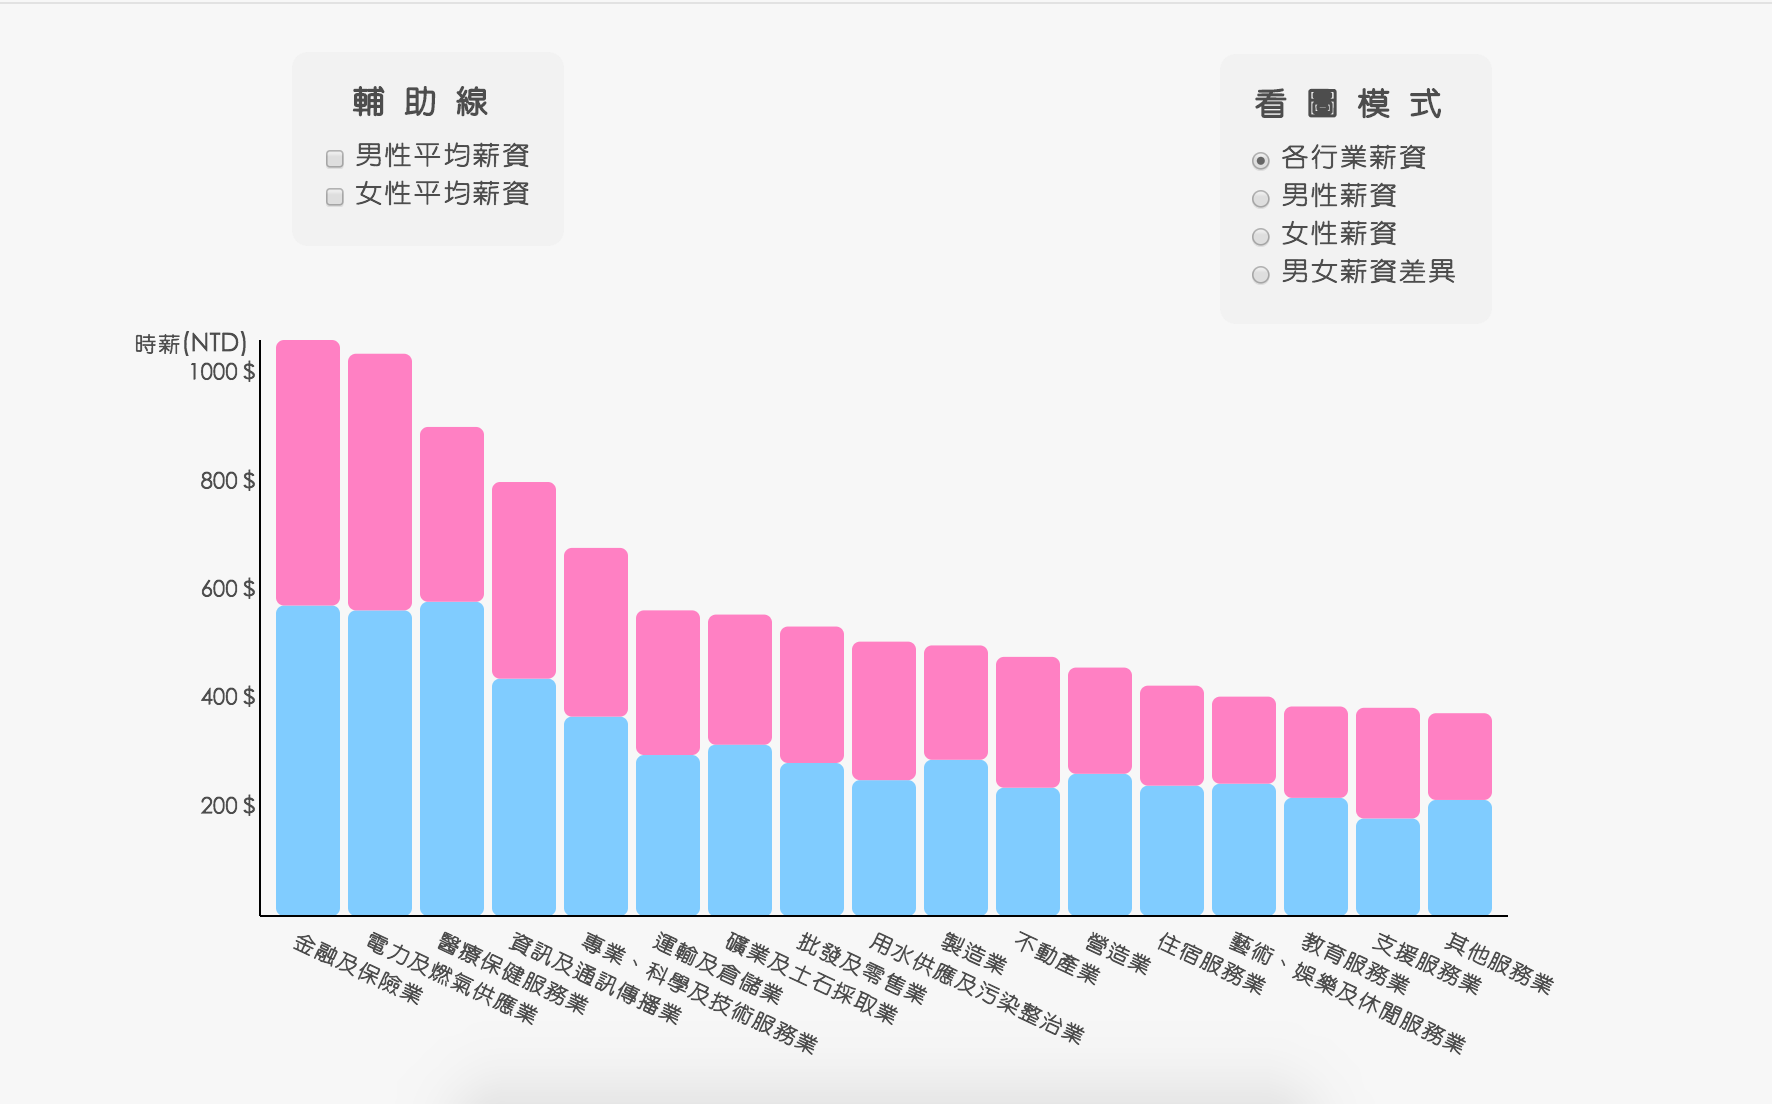
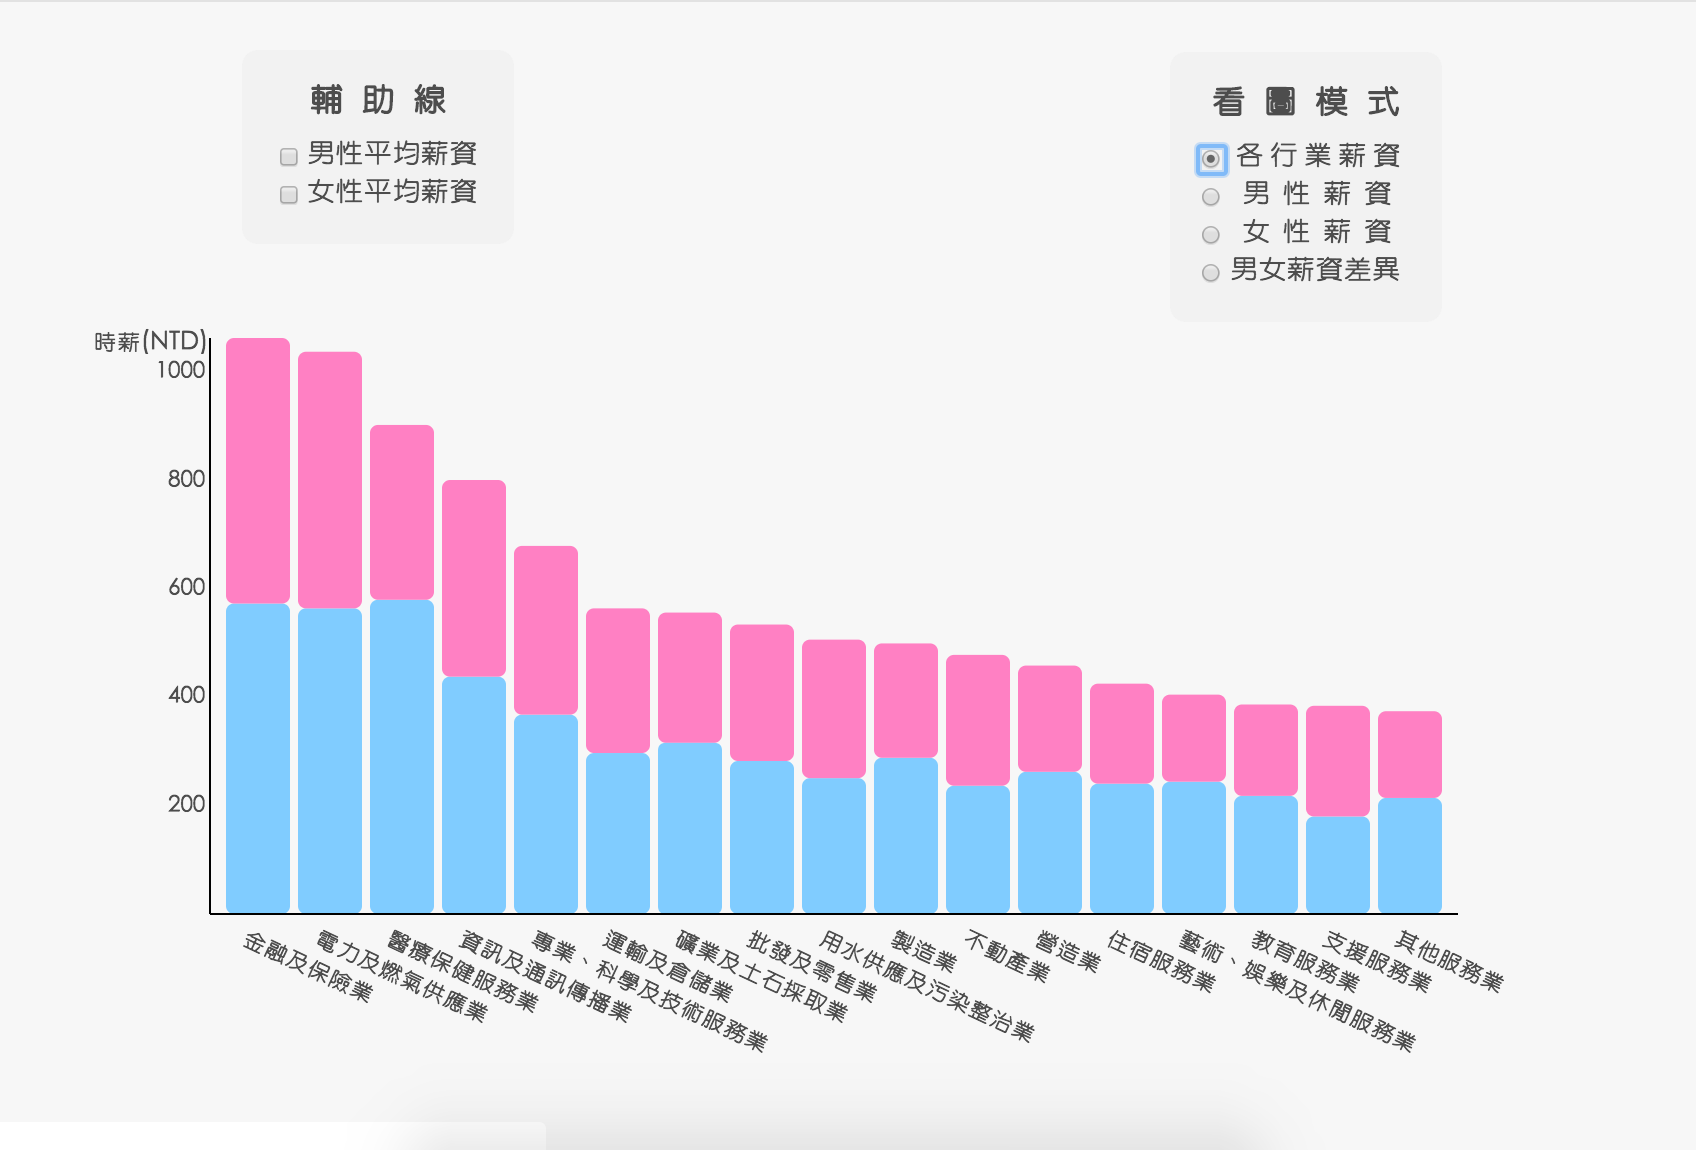
taiwan_salary_2015 bug fixed

Changed region(s): [[0.0625, 0.2772, 0.9062, 0.9547], [0.6875, 0.0616, 0.8438, 0.2772], [0.1562, 0.0616, 0.3125, 0.1848]]

diff --git a/taiwan_salary_2015/index.html b/taiwan_salary_2015/index.html
@@ -1,1 +1,1 @@
-<!DOCTYPE html><html xmlns="http://www.w3.org/1999/xhtml" lang="zh-TW"><head><title>用數據看台灣 - 2015年台灣薪資</title><meta http-equiv="Content-Type" content="text/html; charset=utf-8"><meta property="og:title" content="用數據看台灣 - 2015年台灣薪資"><meta property="og:site_name" content="用數據看台灣 - 2015年台灣薪資"><meta property="og:description" content="想知道什麼行業薪資最高嗎？又或是男女的薪資待遇真的公平嗎？根據政府開放資料，呈現2015年台灣的薪資視覺化！"><meta property="og:image" content="https://s3-ap-northeast-1.amazonaws.com/static.twstat.com/realtime/./images/taiwan_salary_2015.png"><meta property="og:image:type" content="image/png"><meta name="author" content="曾柏瑄"><meta name="citation_authors" content="曾柏瑄"><meta name="description" content="想知道什麼行業薪資最高嗎？又或是男女的薪資待遇真的公平嗎？根據政府開放資料，呈現2015年台灣的薪資視覺化！ Author: 曾柏瑄"><meta name="keywords" content="數據、視覺化、台灣、圖表、資訊"><meta property="og:locale" content="zh_TW"><meta name="viewport" content="width=device-width,initial-scale=1"><link rel="icon" type="image/png" href="//s3-ap-northeast-1.amazonaws.com/static.twstat.com/favicon.ico"><link rel="shortcut icon" href="//s3-ap-northeast-1.amazonaws.com/static.twstat.com/favicon.ico" type="image/x-icon"><link rel="stylesheet" href="//s3-ap-northeast-1.amazonaws.com/static.twstat.com/css/style.min.css"><link rel="stylesheet" href="//storage.googleapis.com/code.getmdl.io/1.0.6/material.amber-orange.min.css"><link rel="stylesheet" href="//s3-ap-northeast-1.amazonaws.com/static.twstat.com/bower_components/semantic/dist/semantic.min.css"><link rel="stylesheet" href="//maxcdn.bootstrapcdn.com/font-awesome/4.4.0/css/font-awesome.min.css"><link rel="stylesheet" href="//fonts.googleapis.com/icon?family=Material+Icons"><script src="//storage.googleapis.com/code.getmdl.io/1.0.6/material.min.js" async=""></script><link rel="stylesheet" type="text/css" href="./css/style.css"><script type="text/javascript" src="http://d3js.org/d3.v3.min.js"></script><link href="https://fonts.googleapis.com/earlyaccess/cwtexyen.css" rel="stylesheet"></head><body><div class="mdl-layout mdl-js-layout mdl-layout--fixed-header" id="layout-header"><header class="mdl-layout__header"><div class="mdl-layout__header-row"><span class="mdl-layout-title"><a href="https://www.taiwanstat.com/realtime/"><img src="https://s3-ap-northeast-1.amazonaws.com/static.twstat.com/realtime/images/assert/round-logo.png" class="round-logo" alt="logo">用數據看台灣</a></span><div class="mdl-layout-spacer"></div><nav class="mdl-navigation mdl-layout--large-screen-only"><a class="mdl-navigation__link" href="https://www.taiwanstat.com/realtime/">台灣開放即時資料</a> <a class="mdl-navigation__link" href="https://www.taiwanstat.com/statistics/">台灣開放統計資料</a> <a class="mdl-navigation__link" href="https://www.taiwanstat.com/global/r/">世界即時資訊</a> <a class="mdl-navigation__link" href="https://www.taiwanstat.com/global/l/">世界統計資訊</a> <a class="mdl-navigation__link" href="https://taiwanstat.com/blog/opendata/">開放資料分析部落格</a> <a class="mdl-navigation__link" href="http://taiwanstat-about-us.cannerapp.com/">關於我們</a></nav><div></div></div></header><div class="mdl-layout__drawer"><span class="mdl-layout-title"><a href="https://www.taiwanstat.com/realtime/"><img src="https://s3-ap-northeast-1.amazonaws.com/static.twstat.com/realtime/images/assert/round-logo.png" class="round-logo" alt="logo">用數據看台灣</a></span><nav class="mdl-navigation"><a class="mdl-navigation__link" href="https://www.taiwanstat.com/realtime/">台灣開放即時資料</a> <a class="mdl-navigation__link" href="https://www.taiwanstat.com/statistics/">台灣開放統計資料</a> <a class="mdl-navigation__link" href="https://www.taiwanstat.com/global/r/">世界即時資訊</a> <a class="mdl-navigation__link" href="https://www.taiwanstat.com/global/l/">世界統計資訊</a> <a class="mdl-navigation__link" href="https://taiwanstat.com/blog/opendata/">開放資料分析部落格</a> <a class="mdl-navigation__link" href="http://taiwanstat-about-us.cannerapp.com/">關於我們</a></nav></div><main class="mdl-layout__content" id="main-content"><div class="title__wrapper"><h1 id="title">2015年台灣薪資</h1><div class="fb-plugin"><div class="fb-like" data-href="http://long.taiwanstat.com/taiwan_salary_2015" data-width="300px" data-layout="standard" data-action="like" data-show-faces="true" data-share="true"></div></div></div><div align="center" class="bars"><div class="avg-lines"><div class="lines">輔助線</div><div class="check-box-male"><input type="checkbox" id="maleAverage"> 男性平均薪資</div><div class="check-box-female"><input type="checkbox" id="femaleAverage"> 女性平均薪資</div></div><div class="modes"><div class="lines">看圖模式</div><div><input class="chart" type="radio" name="mode" value="stacked" checked=""> 各行業薪資</div><div><input class="maleChart" type="radio" name="mode" value="stacked"> 男性薪資</div><div><input class="femaleChart" type="radio" name="mode" value="stacked"> 女性薪資</div><div><input class="chart" type="radio" name="mode" value="grouped"> 男女薪資差異</div></div></div><div class="svg-chart"></div><div class="mdl-card author"><h4><a href="http://taiwanstat_members.cannerapp.com/">About Author</a></h4><div class="author-wrapper"><img class="ui circular image" src="https://s3-ap-northeast-1.amazonaws.com/static.twstat.com/realtime/images/assert/background.png"><div class="author-info"><h5>曾柏瑄</h5></div></div></div><div class="license__wrapper"><a rel="license" href="http://creativecommons.org/licenses/by-nc-sa/4.0/"><img alt="創用 CC 授權條款" style="border-width:0" src="https://i.creativecommons.org/l/by-nc-sa/4.0/88x31.png"></a><br>本著作由<a xmlns:cc="http://creativecommons.org/ns#" href="http://www.taiwanstat.com" property="cc:attributionName" rel="cc:attributionURL">用數據看台灣團隊</a>製作，以<a rel="license" href="http://creativecommons.org/licenses/by-nc-sa/4.0/">創用CC 姓名標示-非商業性-相同方式分享 4.0 國際 授權條款</a>釋出。</div></main></div><script src="//ajax.googleapis.com/ajax/libs/jquery/2.1.3/jquery.min.js"></script><script type="text/javascript" src="//cdnjs.cloudflare.com/ajax/libs/d3/3.5.9/d3.min.js"></script><script src="//s3-ap-northeast-1.amazonaws.com/static.twstat.com/bower_components/semantic/dist/semantic.min.js"></script><script>!function(e,a,t,n,c,o,s){e.GoogleAnalyticsObject=c,e[c]=e[c]||function(){(e[c].q=e[c].q||[]).push(arguments)},e[c].l=1*new Date,o=a.createElement(t),s=a.getElementsByTagName(t)[0],o.async=1,o.src=n,s.parentNode.insertBefore(o,s)}(window,document,"script","//www.google-analytics.com/analytics.js","ga"),ga("create","UA-61023469-1","auto"),ga("send","pageview")</script><div id="fb-root"></div><script>!function(e,t,n){var o,c=e.getElementsByTagName(t)[0];e.getElementById(n)||(o=e.createElement(t),o.id=n,o.src="//connect.facebook.net/zh_TW/sdk.js#xfbml=1&version=v2.5",c.parentNode.insertBefore(o,c))}(document,"script","facebook-jssdk")</script><script src="d3.tip.v0.6.3.js"></script><div class="footer-mobile"><button class="scrollup mdl-button mdl-js-button mdl-button--fab mdl-js-ripple-effect mdl-button--colored mdl-shadow--2dp" id="set"><i class="material-icons">keyboard_arrow_up</i></button></div><footer class="mdl-mini-footer"><div class="mdl-mini-footer__left-section">© 2015 <a href="http://taiwanstat-about-us.cannerapp.com">用數據看台灣</a>· <a href="https://www.facebook.com/taiwanstat/?fref=ts"><i class="facebook square icon"></i></a> · <a href="https://github.com/TaiwanStat"><i class="github square icon"></i></a></div><div class="mdl-mini-footer__right-section"><span class="footer_msg">合作提案、客製化圖表製作、意見回饋 </span>歡迎來信: <a href="mailto:contact@taiwanstat.com">contact@taiwanstat.com</a></div></footer><script src="//s3-ap-northeast-1.amazonaws.com/static.twstat.com/js/main.min.js"></script><script type="text/javascript" src="./js/index.js"></script></body></html>
+<html xmlns="http://www.w3.org/1999/xhtml" lang="zh-TW"><head><meta charset="utf-8"><link rel="icon" type="image/png" href="https://s3-ap-northeast-1.amazonaws.com/static.twstat.com/favicon.ico"><link rel="shortcut icon" href="https://s3-ap-northeast-1.amazonaws.com/static.twstat.com/favicon.ico" type="image/x-icon"><meta property="og:title" content="用數據看台灣 - 2015年台灣薪資"><meta property="og:site_name" content="用數據看台灣 - 2015年台灣薪資"><meta property="og:description" content="想知道什麼行業薪資最高嗎？又或是男女的薪資待遇真的公平嗎？根據政府開放資料，呈現2015年台灣的薪資視覺化！"><title>用數據看台灣 - 2015年台灣薪資</title><meta http-equiv="Content-Type" content="text/html" charset="utf-8"><meta property="og:image" content="http://long.taiwanstat.com/./images/taiwan_salary_2015.png"><meta property="og:image:type" content="image/png"><meta name="author" content="曾柏瑄"><meta name="citation_authors" content="曾柏瑄"><meta name="description" content="想知道什麼行業薪資最高嗎？又或是男女的薪資待遇真的公平嗎？根據政府開放資料，呈現2015年台灣的薪資視覺化！ Author: 曾柏瑄"><meta name="viewport" content="width=device-width,initial-scale=1"><link rel="stylesheet" href="https://s3-ap-northeast-1.amazonaws.com/static.twstat.com/css/style.min.css"><link rel="stylesheet" href="https://maxcdn.bootstrapcdn.com/font-awesome/4.4.0/css/font-awesome.min.css"><link rel="stylesheet" href="https://storage.googleapis.com/code.getmdl.io/1.0.6/material.amber-orange.min.css"><link rel="stylesheet" href="https://fonts.googleapis.com/icon?family=Material+Icons"><link rel="stylesheet" href="https://s3-ap-northeast-1.amazonaws.com/static.twstat.com/bower_components/semantic/dist/semantic.min.css"><script src="https://storage.googleapis.com/code.getmdl.io/1.0.6/material.min.js" async=""></script><link rel="stylesheet" type="text/css" href="./css/style.css"><script type="text/javascript" src="http://d3js.org/d3.v3.min.js"></script><link href="https://fonts.googleapis.com/earlyaccess/cwtexyen.css" rel="stylesheet"></head><body><div class="mdl-layout mdl-js-layout mdl-layout--fixed-header" id="layout-header"><header class="mdl-layout__header"><div class="mdl-layout__header-row"><span class="mdl-layout-title"><a href="http://real.taiwanstat.com/"><img src="https://s3-ap-northeast-1.amazonaws.com/static.twstat.com/realtime/images/assert/round-logo.png" id="round-logo">用數據看台灣</a></span><div class="mdl-layout-spacer"></div><nav class="mdl-navigation mdl-layout--large-screen-only"><a class="mdl-navigation__link" href="https://www.taiwanstat.com/realtime/">台灣開放即時資料</a> <a class="mdl-navigation__link" href="https://www.taiwanstat.com/statistics/">台灣開放統計資料</a> <a class="mdl-navigation__link" href="http://global.taiwanstat.com/r/">世界即時資訊</a> <a class="mdl-navigation__link" href="http://global.taiwanstat.com/l/">世界統計資訊</a> <a class="mdl-navigation__link" href="https://taiwanstat.com/blog/opendata/">開放資料分析部落格</a> <a class="mdl-navigation__link" href="http://taiwanstat-about-us.cannerapp.com/">關於我們</a></nav><div></div></div></header><div class="mdl-layout__drawer"><span class="mdl-layout-title"><a href="http://real.taiwanstat.com/"><img src="https://s3-ap-northeast-1.amazonaws.com/static.twstat.com/realtime/images/assert/round-logo.png" id="round-logo">用數據看台灣</a></span><nav class="mdl-navigation"><a class="mdl-navigation__link" href="https://www.taiwanstat.com/realtime/">台灣開放即時資料</a> <a class="mdl-navigation__link" href="https://www.taiwanstat.com/statistics/">台灣開放統計資料</a> <a class="mdl-navigation__link" href="http://global.taiwanstat.com/r/">世界即時資訊</a> <a class="mdl-navigation__link" href="http://global.taiwanstat.com/l/">世界統計資訊</a> <a class="mdl-navigation__link" href="https://taiwanstat.com/blog/opendata/">開放資料分析部落格</a> <a class="mdl-navigation__link" href="http://taiwanstat-about-us.cannerapp.com/">關於我們</a></nav></div><main class="mdl-layout__content" id="main-content"><div class="title__wrapper"><h1 id="title">2015年台灣薪資</h1><div class="fb-plugin"><div class="fb-like" data-href="http://long.taiwanstat.com/taiwan_salary_2015" data-width="300px" data-layout="standard" data-action="like" data-show-faces="true" data-share="true"></div></div></div><div align="center" class="bars"><div class="avg-lines"><div class="lines">輔助線</div><div class="check-box-male"><input type="checkbox" id="maleAverage"> 男性平均薪資</div><div class="check-box-female"><input type="checkbox" id="femaleAverage"> 女性平均薪資</div></div><div class="modes"><div class="lines">看圖模式</div><div style="letter-spacing:3px;margin-right:-3px"><input class="chart" type="radio" name="mode" value="stacked" checked=""> 各行業薪資</div><div style="letter-spacing:7px;margin-right:-7px"><input class="maleChart" type="radio" name="mode" value="stacked"> 男性薪資</div><div style="letter-spacing:7px;margin-right:-7px"><input class="femaleChart" type="radio" name="mode" value="stacked"> 女性薪資</div><div style="letter-spacing:-.6px"><input class="chart" type="radio" name="mode" value="grouped"> 男女薪資差異</div></div></div><div class="svg-chart"></div><div class="mdl-card author"><h4><a href="http://taiwanstat_members.cannerapp.com/">About Author</a></h4><div class="author-wrapper"><img class="ui circular image" src="https://s3-ap-northeast-1.amazonaws.com/static.twstat.com/realtime/images/assert/background.png"><div class="author-info"><h5>曾柏瑄</h5></div></div></div><div class="license__wrapper"><a rel="license" href="http://creativecommons.org/licenses/by-nc-sa/4.0/"><img alt="創用 CC 授權條款" style="border-width:0" src="https://i.creativecommons.org/l/by-nc-sa/4.0/88x31.png"></a><br>本著作由<a xmlns:cc="http://creativecommons.org/ns#" href="http://www.taiwanstat.com" property="cc:attributionName" rel="cc:attributionURL">用數據看台灣團隊</a>製作，以<a rel="license" href="http://creativecommons.org/licenses/by-nc-sa/4.0/">創用CC 姓名標示-非商業性-相同方式分享 4.0 國際 授權條款</a>釋出。</div></main></div><script src="https://ajax.googleapis.com/ajax/libs/jquery/2.1.3/jquery.min.js"></script><script type="text/javascript" src="https://cdnjs.cloudflare.com/ajax/libs/d3/3.5.9/d3.min.js"></script><script src="https://s3-ap-northeast-1.amazonaws.com/static.twstat.com/bower_components/semantic/dist/semantic.min.js"></script><script>!function(e,a,t,n,c,o,s){e.GoogleAnalyticsObject=c,e[c]=e[c]||function(){(e[c].q=e[c].q||[]).push(arguments)},e[c].l=1*new Date,o=a.createElement(t),s=a.getElementsByTagName(t)[0],o.async=1,o.src=n,s.parentNode.insertBefore(o,s)}(window,document,"script","//www.google-analytics.com/analytics.js","ga"),ga("create","UA-61023469-1","auto"),ga("send","pageview")</script><div id="fb-root"></div><script>!function(e,t,n){var o,c=e.getElementsByTagName(t)[0];e.getElementById(n)||(o=e.createElement(t),o.id=n,o.src="//connect.facebook.net/zh_TW/sdk.js#xfbml=1&version=v2.5",c.parentNode.insertBefore(o,c))}(document,"script","facebook-jssdk")</script><script src="d3.tip.v0.6.3.js"></script><div class="footer-mobile"><button class="scrollup mdl-button mdl-js-button mdl-button--fab mdl-js-ripple-effect mdl-button--colored mdl-shadow--2dp" id="set"><i class="material-icons">keyboard_arrow_up</i></button></div><footer class="mdl-mini-footer"><div class="mdl-mini-footer__left-section">© 2015 <a href="http://taiwanstat-about-us.cannerapp.com">用數據看台灣</a> · <a href="http://netdb.csie.ncku.edu.tw">NCKU-NetDB</a> · <a href="https://www.facebook.com/taiwanstat/?fref=ts"><i class="facebook icon"></i></a></div><div class="mdl-mini-footer__right-section"><span class="footer_msg">合作提案、客製化圖表製作、意見回饋 </span>歡迎來信: <a href="mailto:contact@taiwanstat.com">contact@taiwanstat.com</a></div></footer><script src="https://s3-ap-northeast-1.amazonaws.com/static.twstat.com/js/main.min.js"></script><script type="text/javascript" src="./js/index.js"></script></body></html>

diff --git a/taiwan_salary_2015/css/style.css b/taiwan_salary_2015/css/style.css
@@ -18,15 +18,18 @@
 
 .check-box-female {
   color:#4d4d4d;
+  letter-spacing: -0.6px;
 }
 
 .check-box-male {
   color:#4d4d4d;
+  letter-spacing: -0.6px;
 }
 
 .lines {
   letter-spacing: 10px;
   margin-bottom: 10px;
+  margin-right: -10px;
   text-align: center;
   font-size: 24px;
   font-weight: bold;
@@ -63,6 +66,7 @@ text {
   background: #595959;
   color: #fff;
   border-radius: 4px;
+  z-index: 99;
 }
 
 /* Creates a small triangle extender for the tooltip */

diff --git a/taiwan_salary_2015/js/index.js b/taiwan_salary_2015/js/index.js
@@ -146,7 +146,7 @@ d3.csv("data/salary.csv", function(error, data) {
      .style("font-weight", "normal")
      .style("fill","#4d4d4d")
      .text("時薪(NTD)")
-     .attr("x", -7)
+     .attr("x", -1)
      .attr("y", -3)
      .attr("dy", ".71em")
      .style("text-anchor", "end");
